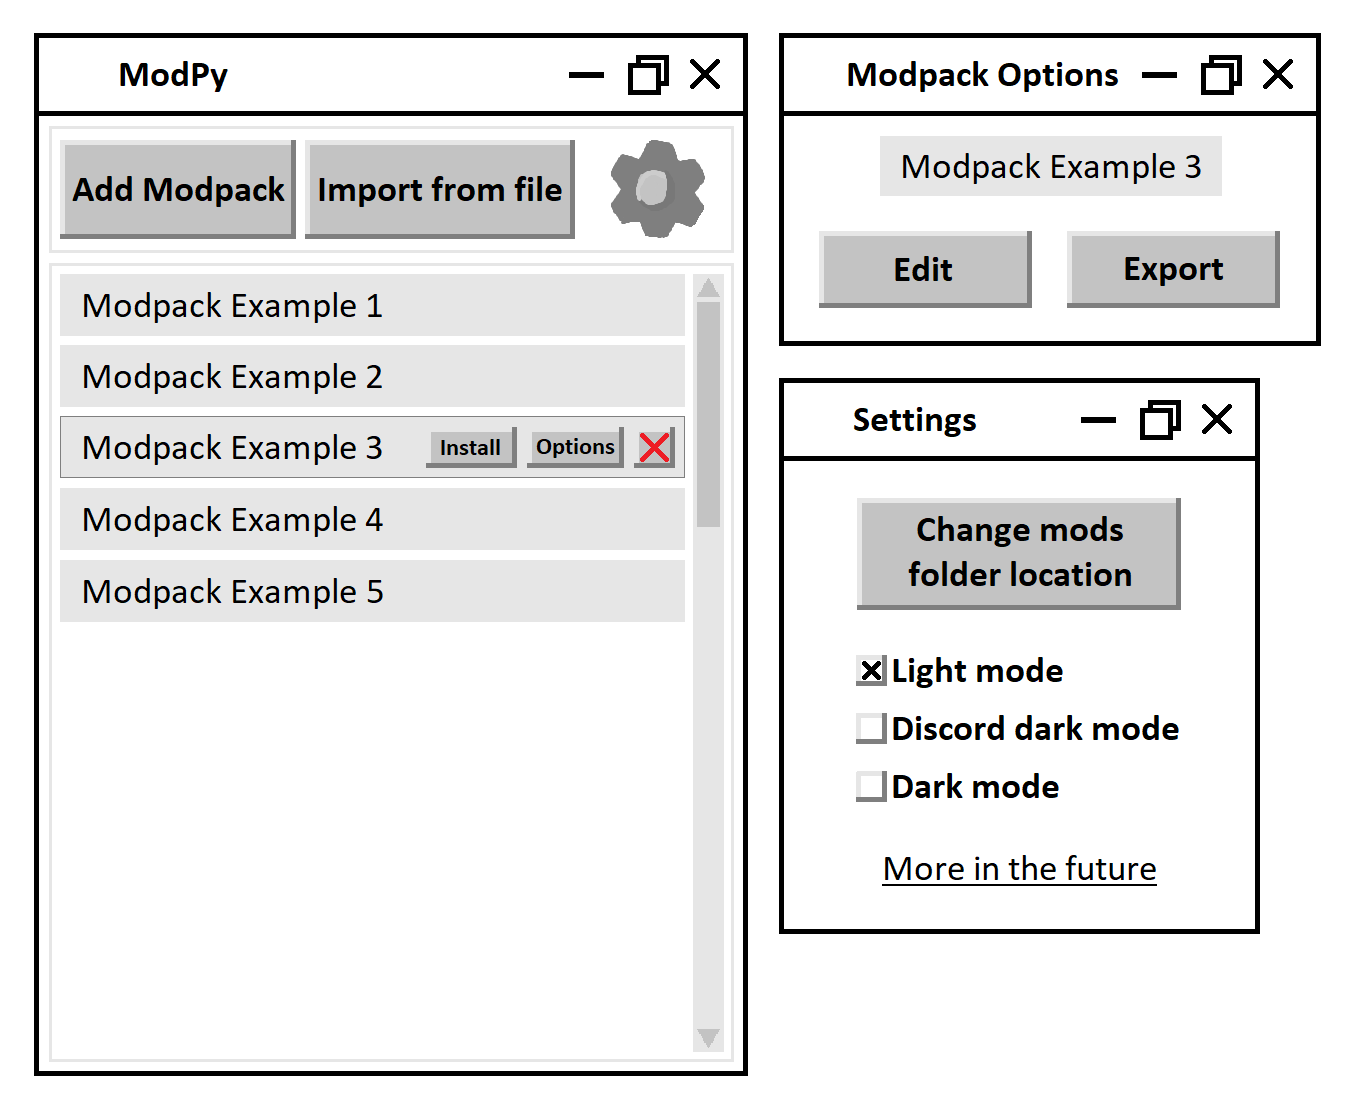
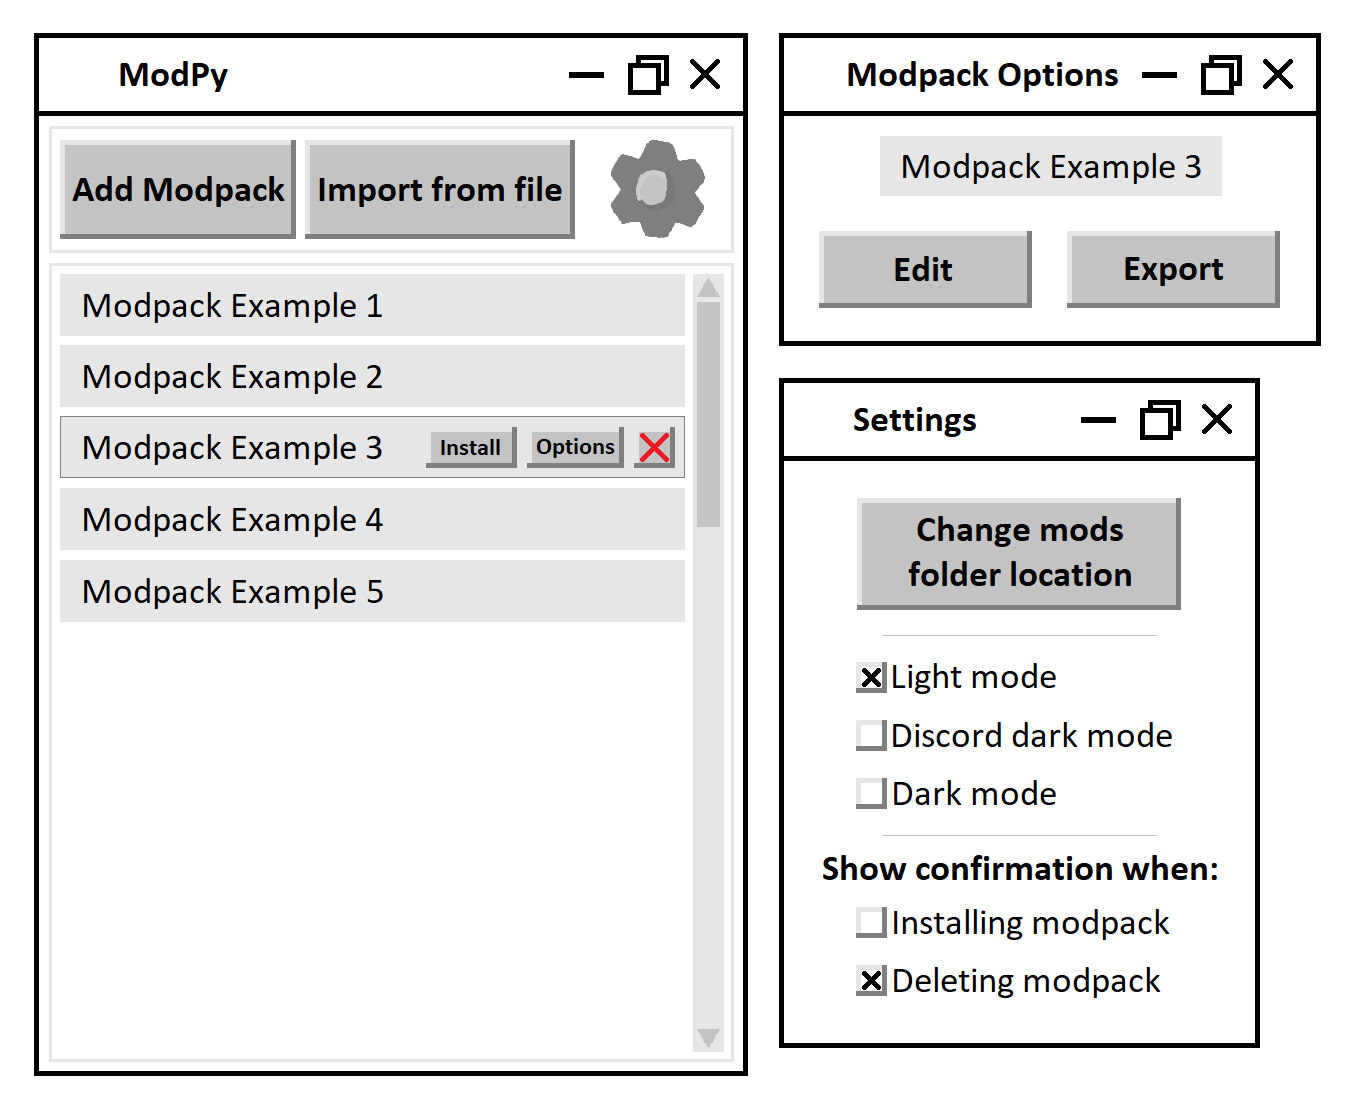
Modpack list test and changes in sketch

Changed region(s): [[0.5579, 0.7678, 0.9299, 0.9521], [0.6199, 0.5836, 0.8679, 0.7371]]

diff --git a/ModPy.py b/ModPy.py
@@ -1,3 +1,4 @@
+from pickle import NONE
 from tkinter import Tk, Button, Label, Frame
 from PIL import ImageTk, Image
 import os
@@ -11,7 +12,7 @@ root.geometry("350x500")  #Resolution of the window
 root.resizable(False, False)  #Make it so you can't resize it
 
 #Change the theme to get different colors
-theme = "discord dark"
+theme = "light"
 config_folder = "config/"
 mods_folder = str(os.getenv("APPDATA")) + "/.minecraft/mods/"
 
@@ -19,9 +20,10 @@ if theme == "light":
     print("Theme set to \"light\"")
     bg_color = "#f0f0f0"
     button_bg_color = "#c3c3c3"
-    button_fg_color = "#000000"
+    fg_color = "#000000"
     button_active_bg_color = button_bg_color
-    button_active_foreground_color = button_fg_color
+    button_active_foreground_color = fg_color
+    label_bg_color = "#e4e4e4"
     frame_bg_color = bg_color
     highlightbackground_color = "#afafaf"
     settings_cog = ImageTk.PhotoImage(Image.open("images/settings_cog_light.png"))
@@ -36,9 +38,9 @@ if theme == "discord dark":
 
     bg_color = "#36393f"
     button_bg_color = bg_color
-    button_fg_color = "#d2d3d5"
+    fg_color = "#d2d3d5"
     button_active_bg_color = button_bg_color
-    button_active_foreground_color = button_fg_color
+    button_active_foreground_color = fg_color
     frame_bg_color = "#2f3136"
     highlightbackground_color = "#8a8a8a"
     settings_cog = ImageTk.PhotoImage(Image.open("images/settings_cog_discord_dark.png"))
@@ -54,70 +56,91 @@ widget_offset_x = 6
 widget_offset_y = widget_offset_x
 
 
-dark_title_bar(root)
-
-
 def create_button_panel_widgets():
     button_panel_frame = Frame(root, width = 350 - widget_offset_x * 2, height = 60, bg = frame_bg_color, highlightbackground = "#afafaf", highlightthickness=1)
     button_panel_frame.place(in_ = root, x = widget_offset_x, y = widget_offset_y)
 
-    add_button = Button(
-        text = "+",
-        font = ("Arial", 55),
+    add_modpack_button = Button(
+        text = "Add Modpack",
+        font = ("Arial", 14),
         bg = button_bg_color,
-        fg = button_fg_color,
+        fg = fg_color,
         activebackground = button_active_bg_color,
         activeforeground = button_active_foreground_color,
         image = virtualPixel, compound = "c",
-        width = 60 - widget_offset_x * 4 + 2,
+        width = 141 - widget_offset_x * 4 + 2,
         height = 60 - widget_offset_x * 4 + 2,
         command = print)
-    add_button.place(in_ = button_panel_frame, x = widget_offset_x, y = widget_offset_y)
-
-    remove_button = Button(
-        text = "-",
-        font = ("Arial", 55),
-        bg = button_bg_color,
-        fg = button_fg_color,
-        activebackground = button_active_bg_color,
-        activeforeground = button_active_foreground_color,
-        image = virtualPixel, compound = "c",
-        width = 60 - widget_offset_x * 4 + 2,
-        height = 60 - widget_offset_x * 4 + 2,
-        command = print)
-    remove_button.place(in_ = button_panel_frame, x = 58, y = widget_offset_y)
+    add_modpack_button.place(in_ = button_panel_frame, x = widget_offset_x, y = widget_offset_y)
 
     import_from_file_button = Button(button_panel_frame,
         text = "Import from file",
         font = ("Arial", 14),
         bg = button_bg_color,
-        fg = button_fg_color,
+        fg = fg_color,
         activebackground = button_active_bg_color,
         activeforeground = button_active_foreground_color,
         image = virtualPixel, compound = "c",
-        width = 180 - widget_offset_x * 4 + 2,
+        width = 152 - widget_offset_x * 4 + 2,
         height = 60 - widget_offset_x * 4 + 2,
         command = print)
-    import_from_file_button.place(in_ = button_panel_frame, x = 110, y = widget_offset_y)
+    import_from_file_button.place(in_ = button_panel_frame, x = 139, y = widget_offset_y)
 
     settings_button = Button(
         relief = "flat",
-        bg = button_bg_color,
+        bg = frame_bg_color,
         activebackground = button_active_bg_color,
         image = settings_cog,
         command = lambda : s.open_settings_window(theme))
     settings_button.place(in_ = button_panel_frame, x = 283, y = widget_offset_y - 2)
 
 
-def create_modpack_list_widgets():
+def create_modpack_list_structure():
+    global modpack_list_frame
     modpack_list_frame = Frame(root, width = 350 - widget_offset_x * 2, height = 422, bg = frame_bg_color, highlightbackground = "#afafaf", highlightthickness=1)
     modpack_list_frame.place(in_ = root, x = widget_offset_x, y = widget_offset_y + 60 + widget_offset_y)
 
     #TODO: Add the code to create the modpack list
 
 
+
+#This list will hold every modpack that has been saved by the user
+modpacks_saved = []
+
+
+def load_modpacks():
+    #This function will save every modpack that the user has saved in the modpacks_saved list.
+    #At the moment, this is just a placeholder so I can continue working on the program.
+    #This functionality will be implemented in the future.
+    modpacks_saved.append("Test 1 modpack")
+    modpacks_saved.append("Test 2 modpack")
+    modpacks_saved.append("Test 3 modpack")
+    modpacks_saved.append("Test 4 modpack")
+    
+
+def show_modpacks():
+    #TODO
+    #Shows every modpack saved by the user in modpack_list_frame, creating buttons to install, see options and delete them.
+    global modpack_list_frame
+
+    for modpack in modpacks_saved:
+        modpack_label = Label(modpack_list_frame,
+            text = modpack,
+            font = ("Arial", 14),
+            anchor = "w",
+            bg = label_bg_color,
+            fg = fg_color,
+            image = virtualPixel, compound = "c",
+            width = 318,
+            height = 26)
+        modpack_label.pack(padx = widget_offset_x, pady = widget_offset_y / 2)
+
+
+
 create_button_panel_widgets()
-create_modpack_list_widgets()
+create_modpack_list_structure()
+load_modpacks()
+show_modpacks()
 
 
 root.mainloop()
